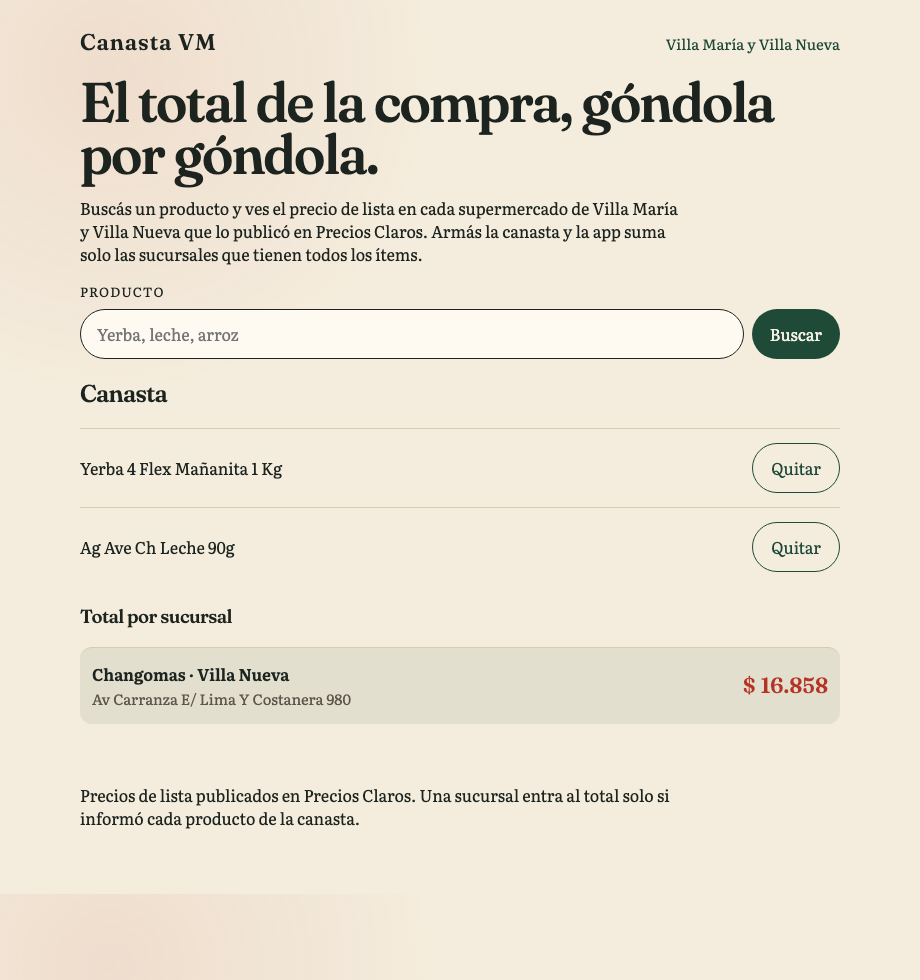
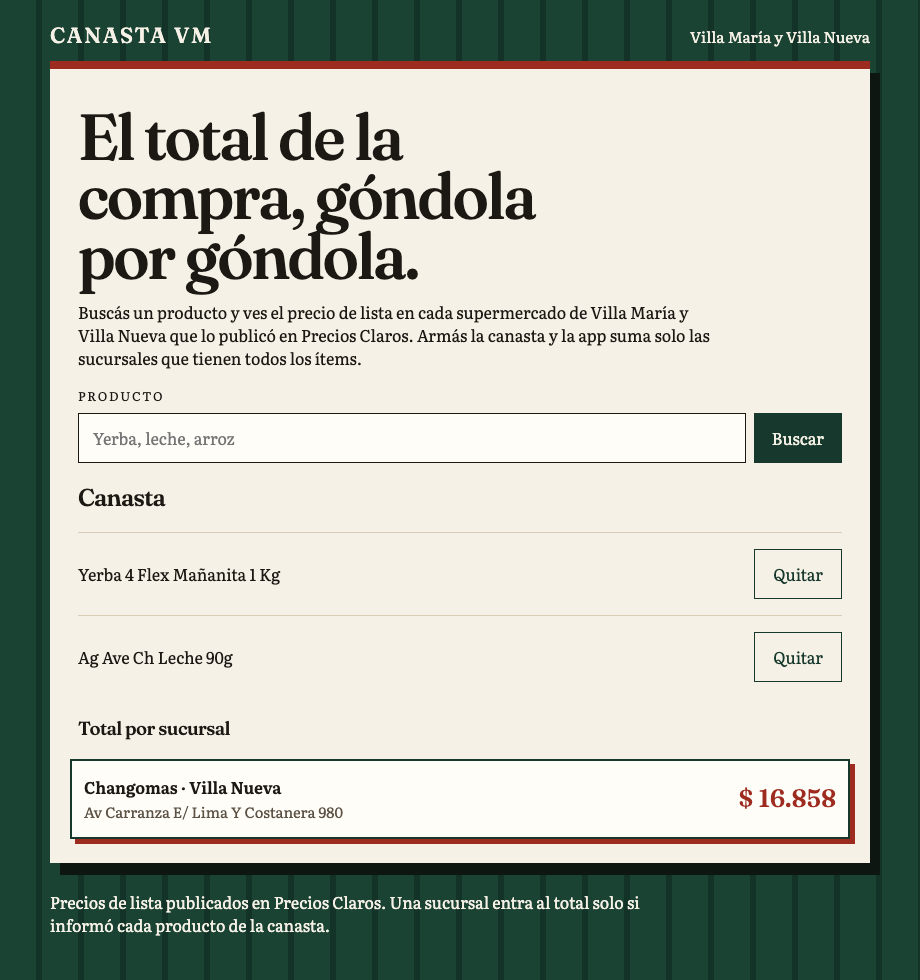
style: lay Canasta prices out as shelf tickets

diff --git a/web/styles.css b/web/styles.css
@@ -1,46 +1,55 @@
 :root {
-  --paper: #f4ecdc;
-  --ink: #1d2420;
-  --green: #1f4a38;
-  --stamp: #b43324;
-  --line: #d7cbb6;
-  --card: #fffaf1;
+  --ink: #1c1914;
+  --ticket: #f6f1e6;
+  --green: #17382c;
+  --stamp: #9d2b1f;
+  --line: #d9ccb4;
+  --focus: #8a3a22;
 }
 
 * { box-sizing: border-box; }
 
 body {
   margin: 0;
-  background:
-    radial-gradient(circle at 12% 8%, rgba(180, 51, 36, 0.08), transparent 28%),
-    var(--paper);
+  min-height: 100dvh;
   color: var(--ink);
   font-family: Literata, Georgia, serif;
+  background:
+    repeating-linear-gradient(90deg, #1b4334 0 36px, #143328 36px 42px);
 }
 
-.mast, main, footer {
-  width: min(760px, calc(100% - 32px));
+.mast, footer {
+  width: min(820px, calc(100% - 32px));
   margin-inline: auto;
+  color: #f6f1e6;
 }
 
 .mast {
   display: flex;
   justify-content: space-between;
   align-items: baseline;
-  padding: 28px 0 8px;
+  padding: 22px 0 12px;
 }
 
 .brand {
   margin: 0;
   font-family: Fraunces, Georgia, serif;
-  font-size: 1.4rem;
-  letter-spacing: 0.04em;
+  font-size: 1.35rem;
+  letter-spacing: 0.08em;
+  text-transform: uppercase;
 }
 
-.place {
-  margin: 0;
-  color: var(--green);
-  font-size: 0.92rem;
+.place { margin: 0; font-size: 0.95rem; }
+
+main {
+  width: min(820px, calc(100% - 32px));
+  margin: 0 auto 28px;
+  padding: 28px 28px 8px;
+  background:
+    linear-gradient(#9d2b1f, #9d2b1f) 0 0 / 100% 8px no-repeat,
+    var(--ticket);
+  color: var(--ink);
+  box-shadow: 10px 12px 0 #0e1612;
 }
 
 h1, h2, h3 {
@@ -50,54 +59,63 @@ h1, h2, h3 {
 }
 
 h1 {
-  margin: 12px 0 8px;
-  font-size: clamp(2.4rem, 6vw, 4.4rem);
-  line-height: 0.95;
+  margin: 18px 0 10px;
+  max-width: 12ch;
+  font-size: clamp(2.6rem, 7vw, 4.6rem);
+  line-height: 0.92;
 }
 
 .hero p, footer p {
-  max-width: 38rem;
+  max-width: 40rem;
   line-height: 1.45;
+  overflow-wrap: break-word;
 }
 
 .search label {
   display: block;
   margin-bottom: 8px;
-  font-size: 0.82rem;
-  letter-spacing: 0.08em;
+  font-size: 0.78rem;
+  letter-spacing: 0.14em;
   text-transform: uppercase;
 }
 
-.search__row {
-  display: flex;
-  gap: 8px;
-}
+.search__row { display: flex; gap: 8px; }
 
-input, button {
-  font: inherit;
-}
+input, button { font: inherit; }
 
 input {
   flex: 1;
+  min-height: 48px;
   border: 1.5px solid var(--ink);
-  background: var(--card);
-  border-radius: 999px;
-  padding: 12px 16px;
+  background: #fffdf8;
+  border-radius: 0;
+  padding: 12px 14px;
 }
 
 button {
+  min-height: 48px;
   border: 0;
-  border-radius: 999px;
+  border-radius: 0;
   background: var(--green);
-  color: #f7f1e6;
+  color: #f6f1e6;
   padding: 12px 18px;
   cursor: pointer;
+  transition: transform 140ms cubic-bezier(0.22, 1, 0.36, 1), background-color 160ms ease;
 }
+
+button:hover { background: #0f281f; }
+
+button:active { transform: translateY(1px); }
 
 button.ghost {
   background: transparent;
   color: var(--green);
   border: 1.5px solid var(--green);
+}
+
+button:focus-visible, input:focus-visible {
+  outline: 3px solid var(--focus);
+  outline-offset: 2px;
 }
 
 .results, .stores ul, .basket ul, .basket ol {
@@ -107,34 +125,51 @@ button.ghost {
 
 .result, .store, .line, .total {
   display: grid;
-  gap: 4px 16px;
-  padding: 14px 0;
+  grid-template-columns: 1fr auto;
+  gap: 12px 16px;
+  align-items: center;
+  padding: 16px 0;
   border-top: 1px solid var(--line);
 }
 
-.line {
-  grid-template-columns: 1fr auto;
-  align-items: center;
-}
-
-.result, .total {
-  grid-template-columns: 1fr auto;
-  align-items: center;
+.tag {
+  display: grid;
+  justify-items: end;
+  gap: 8px;
+  min-width: 168px;
+  padding: 10px 12px;
+  background: #fffdf8;
+  border: 1.5px solid var(--ink);
 }
 
 .price {
   font-family: Fraunces, Georgia, serif;
   font-variant-numeric: tabular-nums;
   color: var(--stamp);
-  font-size: 1.35rem;
+  font-size: 1.55rem;
+  line-height: 1;
 }
 
-.meta { color: #5c564c; font-size: 0.92rem; }
+.meta { color: #5c5346; font-size: 0.92rem; }
 
 .total--best {
-  background: rgba(31, 74, 56, 0.08);
-  border-radius: 12px;
-  padding-inline: 12px;
+  margin-inline: -8px;
+  padding: 14px 12px;
+  background: #fffdf8;
+  border: 2px solid var(--green);
+  box-shadow: 5px 5px 0 var(--stamp);
 }
 
-footer { padding: 28px 0 48px; }
+footer { padding: 0 0 48px; }
+
+@media (max-width: 640px) {
+  .mast { flex-direction: column; align-items: flex-start; gap: 4px; }
+  main { padding: 22px 16px 8px; }
+  .result, .store, .line, .total { grid-template-columns: 1fr; }
+  .tag { justify-items: start; min-width: 0; }
+  .search__row { flex-direction: column; }
+}
+
+@media (prefers-reduced-motion: reduce) {
+  button { transition: none; }
+}

diff --git a/web/app.js b/web/app.js
@@ -169,6 +169,7 @@ document.querySelector("#search").addEventListener("submit", async (event) => {
       detail.textContent = `${product.marca} · ${product.presentacion}`;
       copy.append(title, document.createElement("br"), detail);
       const actions = document.createElement("div");
+      actions.className = "tag";
       const range = document.createElement("div");
       range.className = "price";
       range.textContent = `${money.format(product.precioMin)} – ${money.format(product.precioMax)}`;
